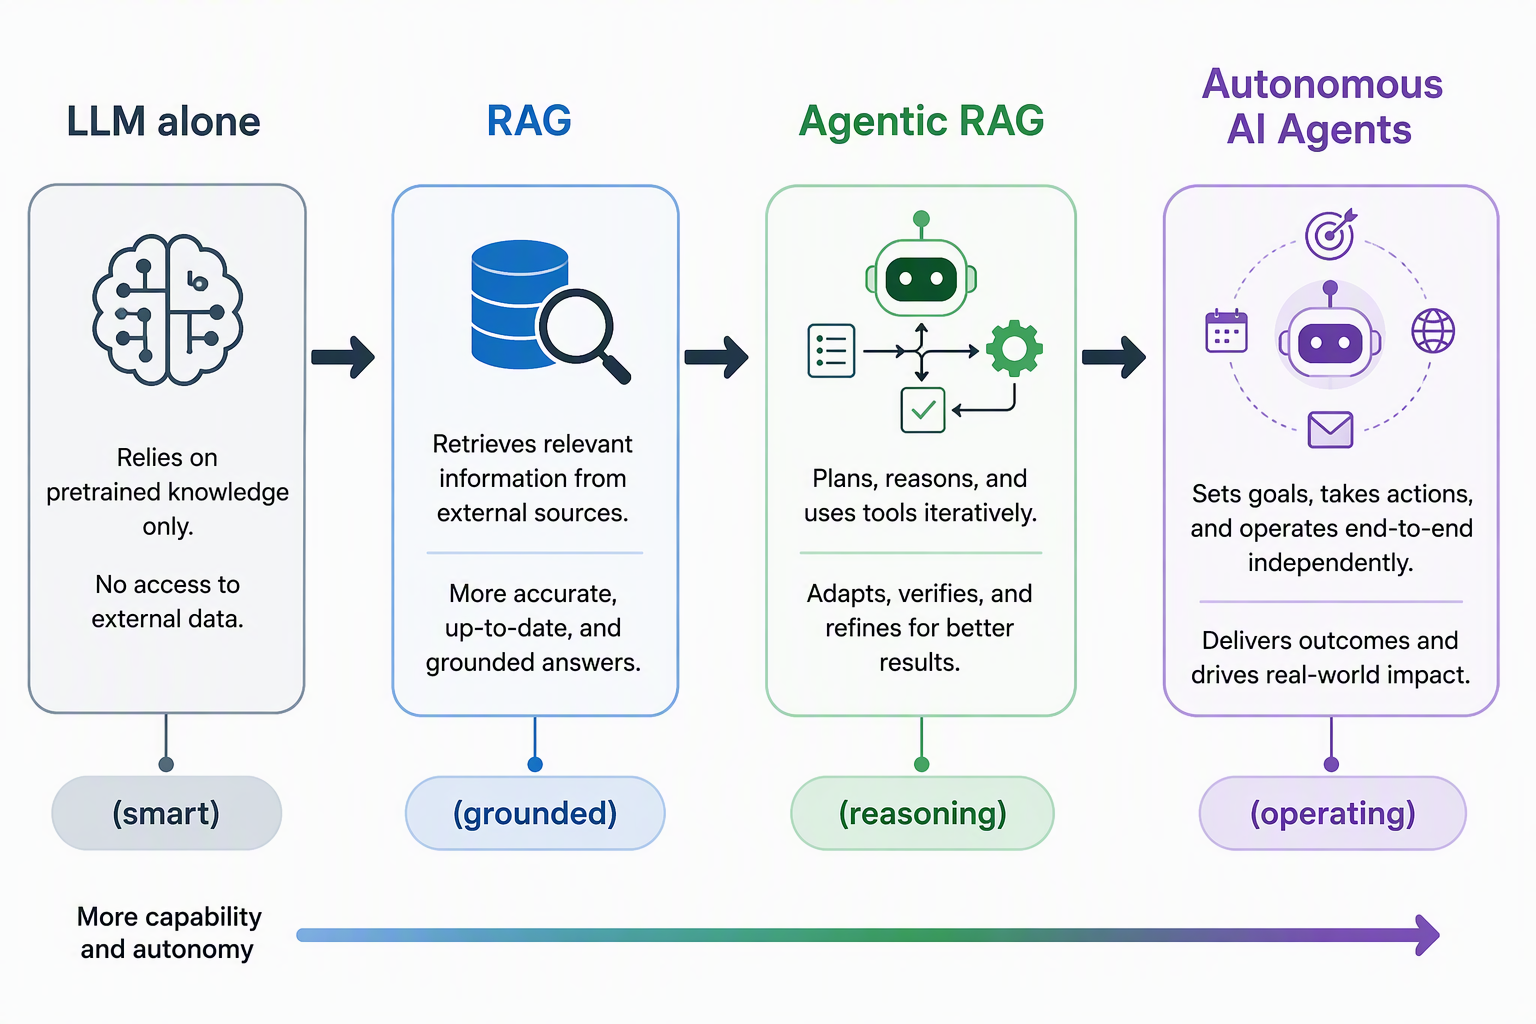
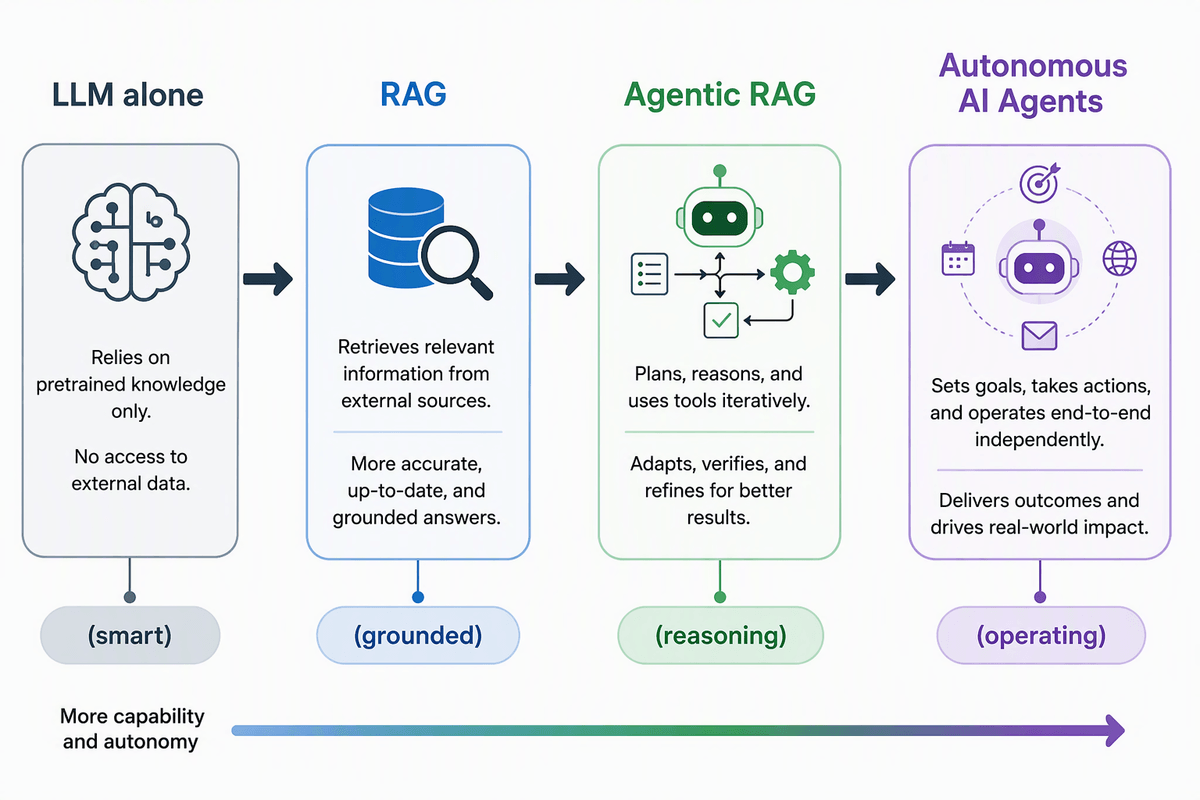
chore: compress blog images and cap prose-img max-height
- Compress 4 designer PNGs with sharp (1200px max-width, level-9): 590-734 KB -> 164-255 KB each
- Add prose-img:max-h-[480px] prose-img:w-auto prose-img:mx-auto to BlogPost
  to prevent portrait images from dominating the viewport

Changed region(s): [[0.5242, 0.3125, 0.555, 0.3438]]

diff --git a/src/features/blog/pages/BlogPost.tsx b/src/features/blog/pages/BlogPost.tsx
@@ -551,7 +551,7 @@ export default function BlogPost() {
               prose-ul:my-4 prose-ol:my-4
               prose-hr:border-slate-800/60 prose-hr:my-8
               prose-strong:text-slate-100 prose-strong:font-bold
-              prose-img:rounded-xl sm:prose-img:rounded-2xl prose-img:shadow-xl
+              prose-img:rounded-xl sm:prose-img:rounded-2xl prose-img:shadow-xl prose-img:max-h-[480px] prose-img:w-auto prose-img:mx-auto
               prose-table:text-xs sm:prose-table:text-sm prose-th:text-slate-300 prose-td:text-slate-400
                 prose-td:border-slate-800 prose-th:border-slate-700
               [&_table]:block [&_table]:overflow-x-auto [&_table]:max-w-full
